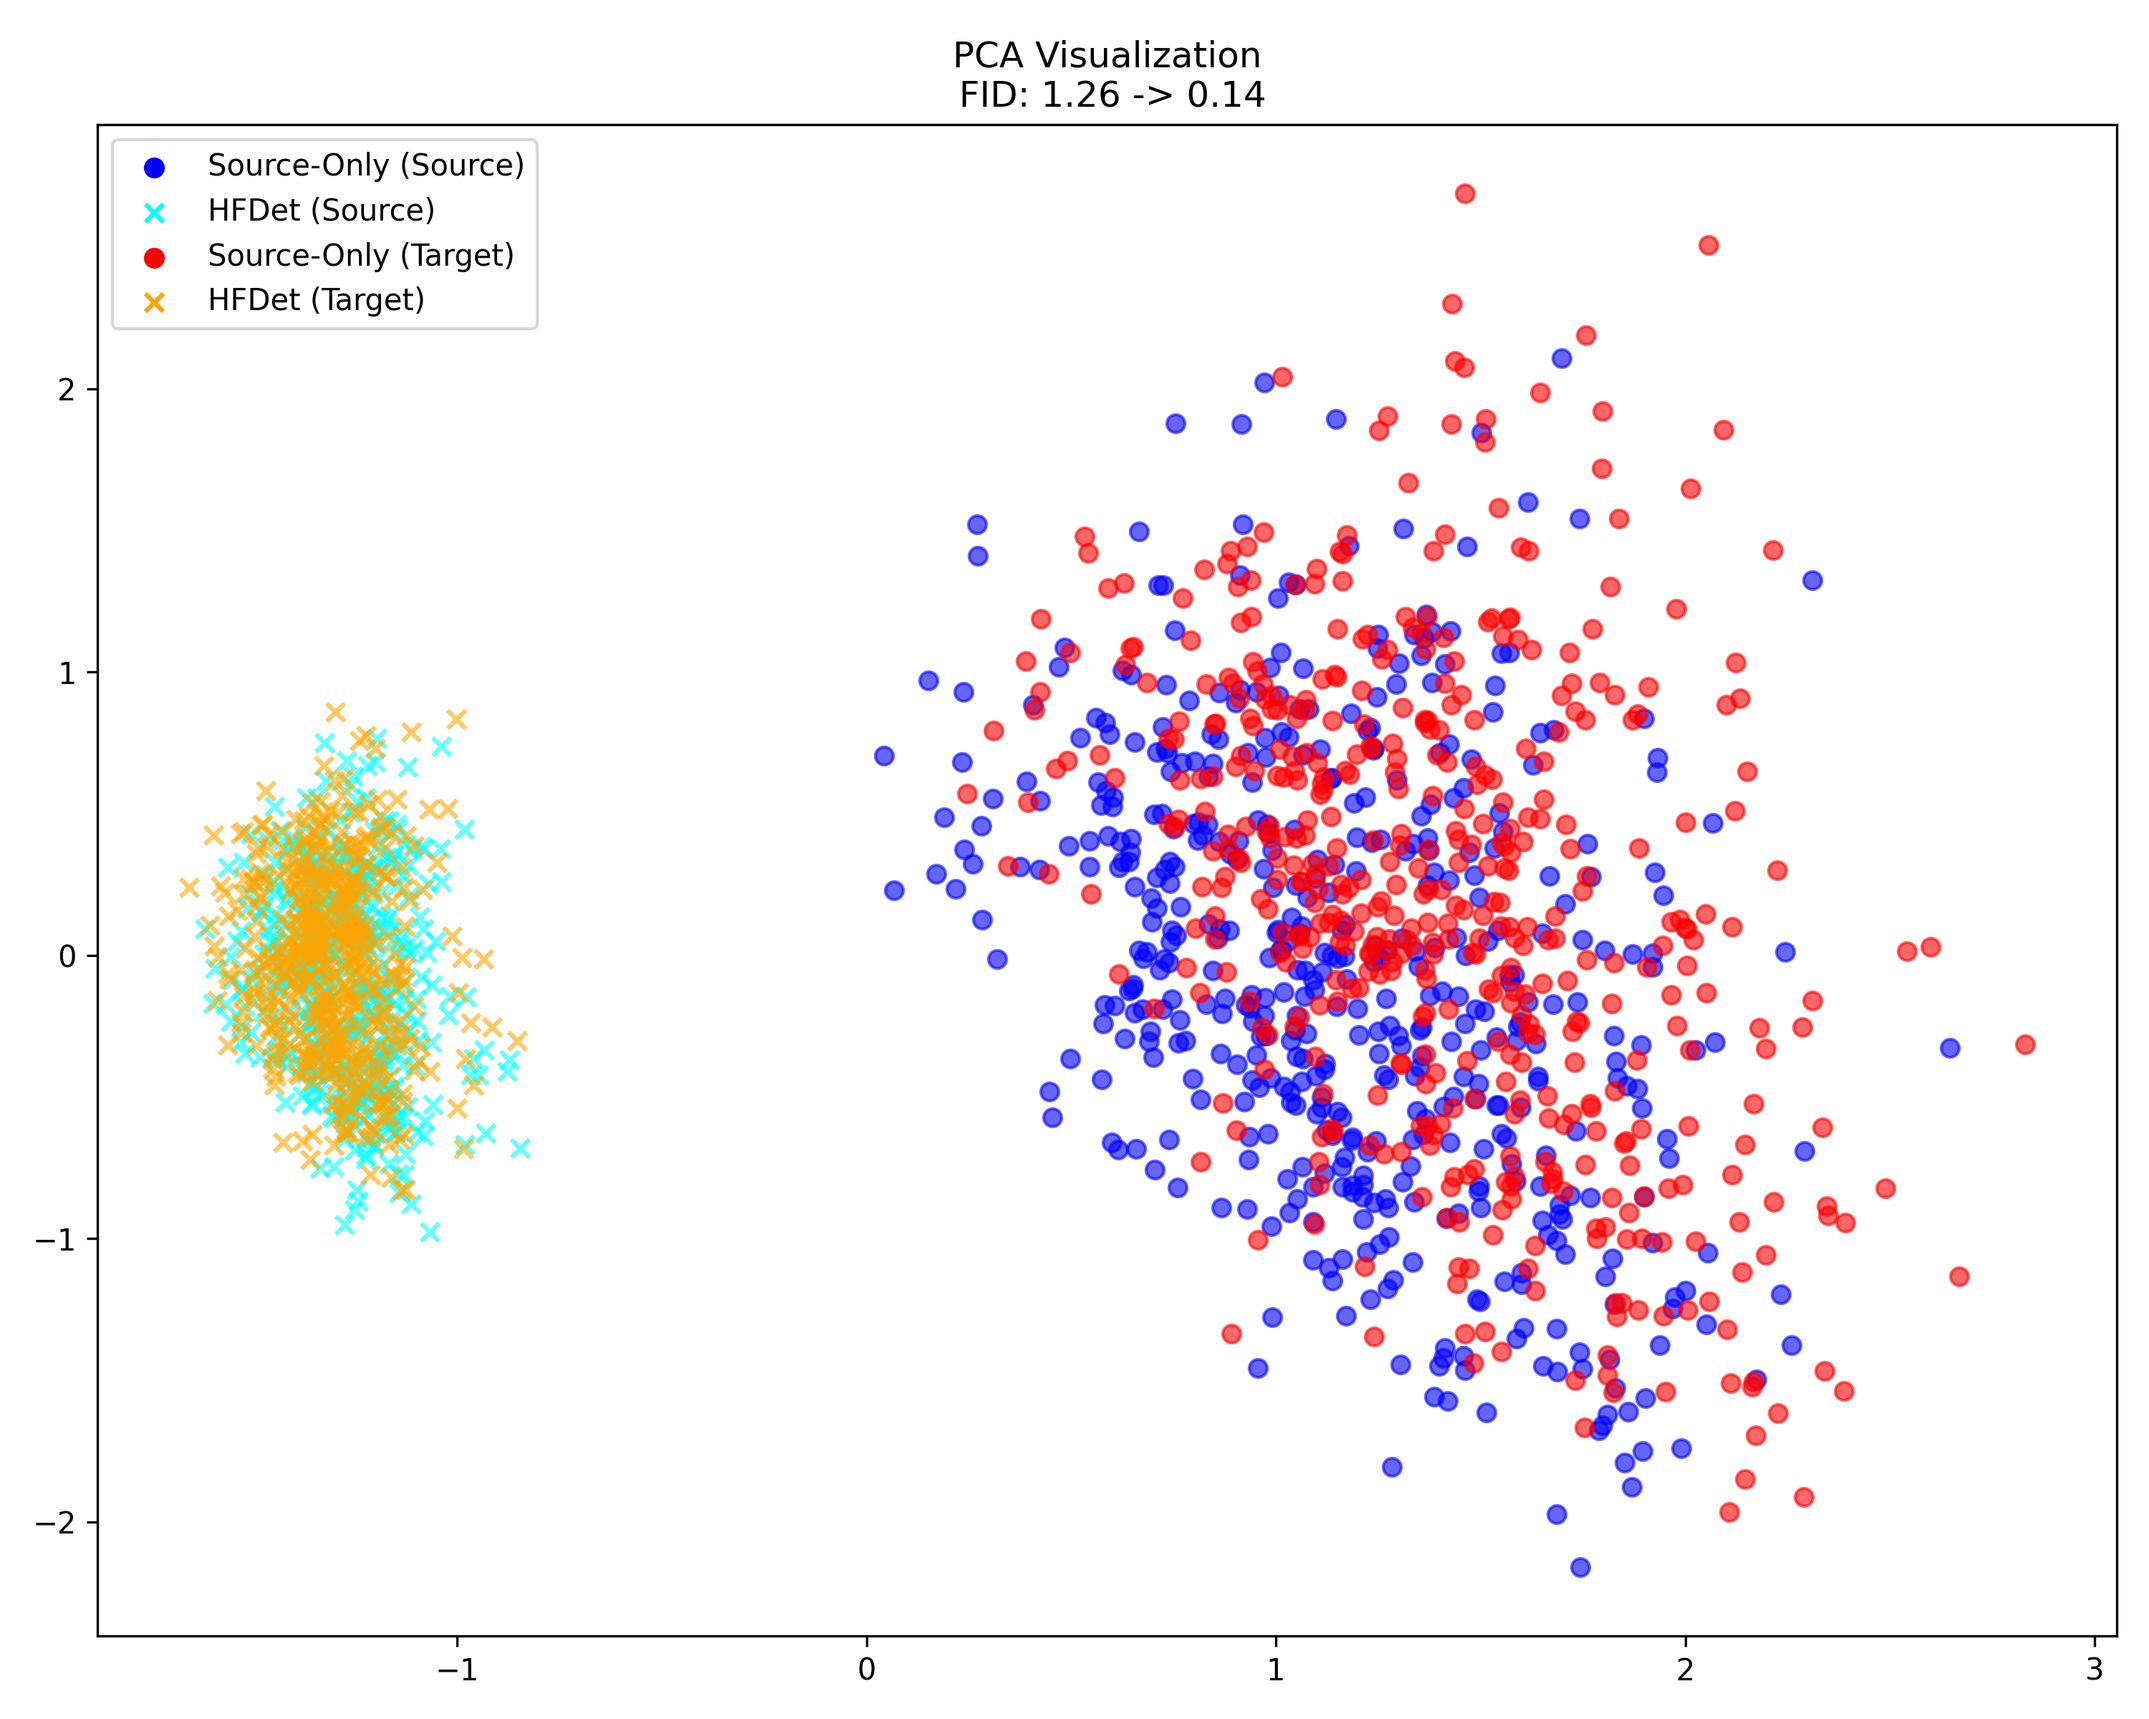
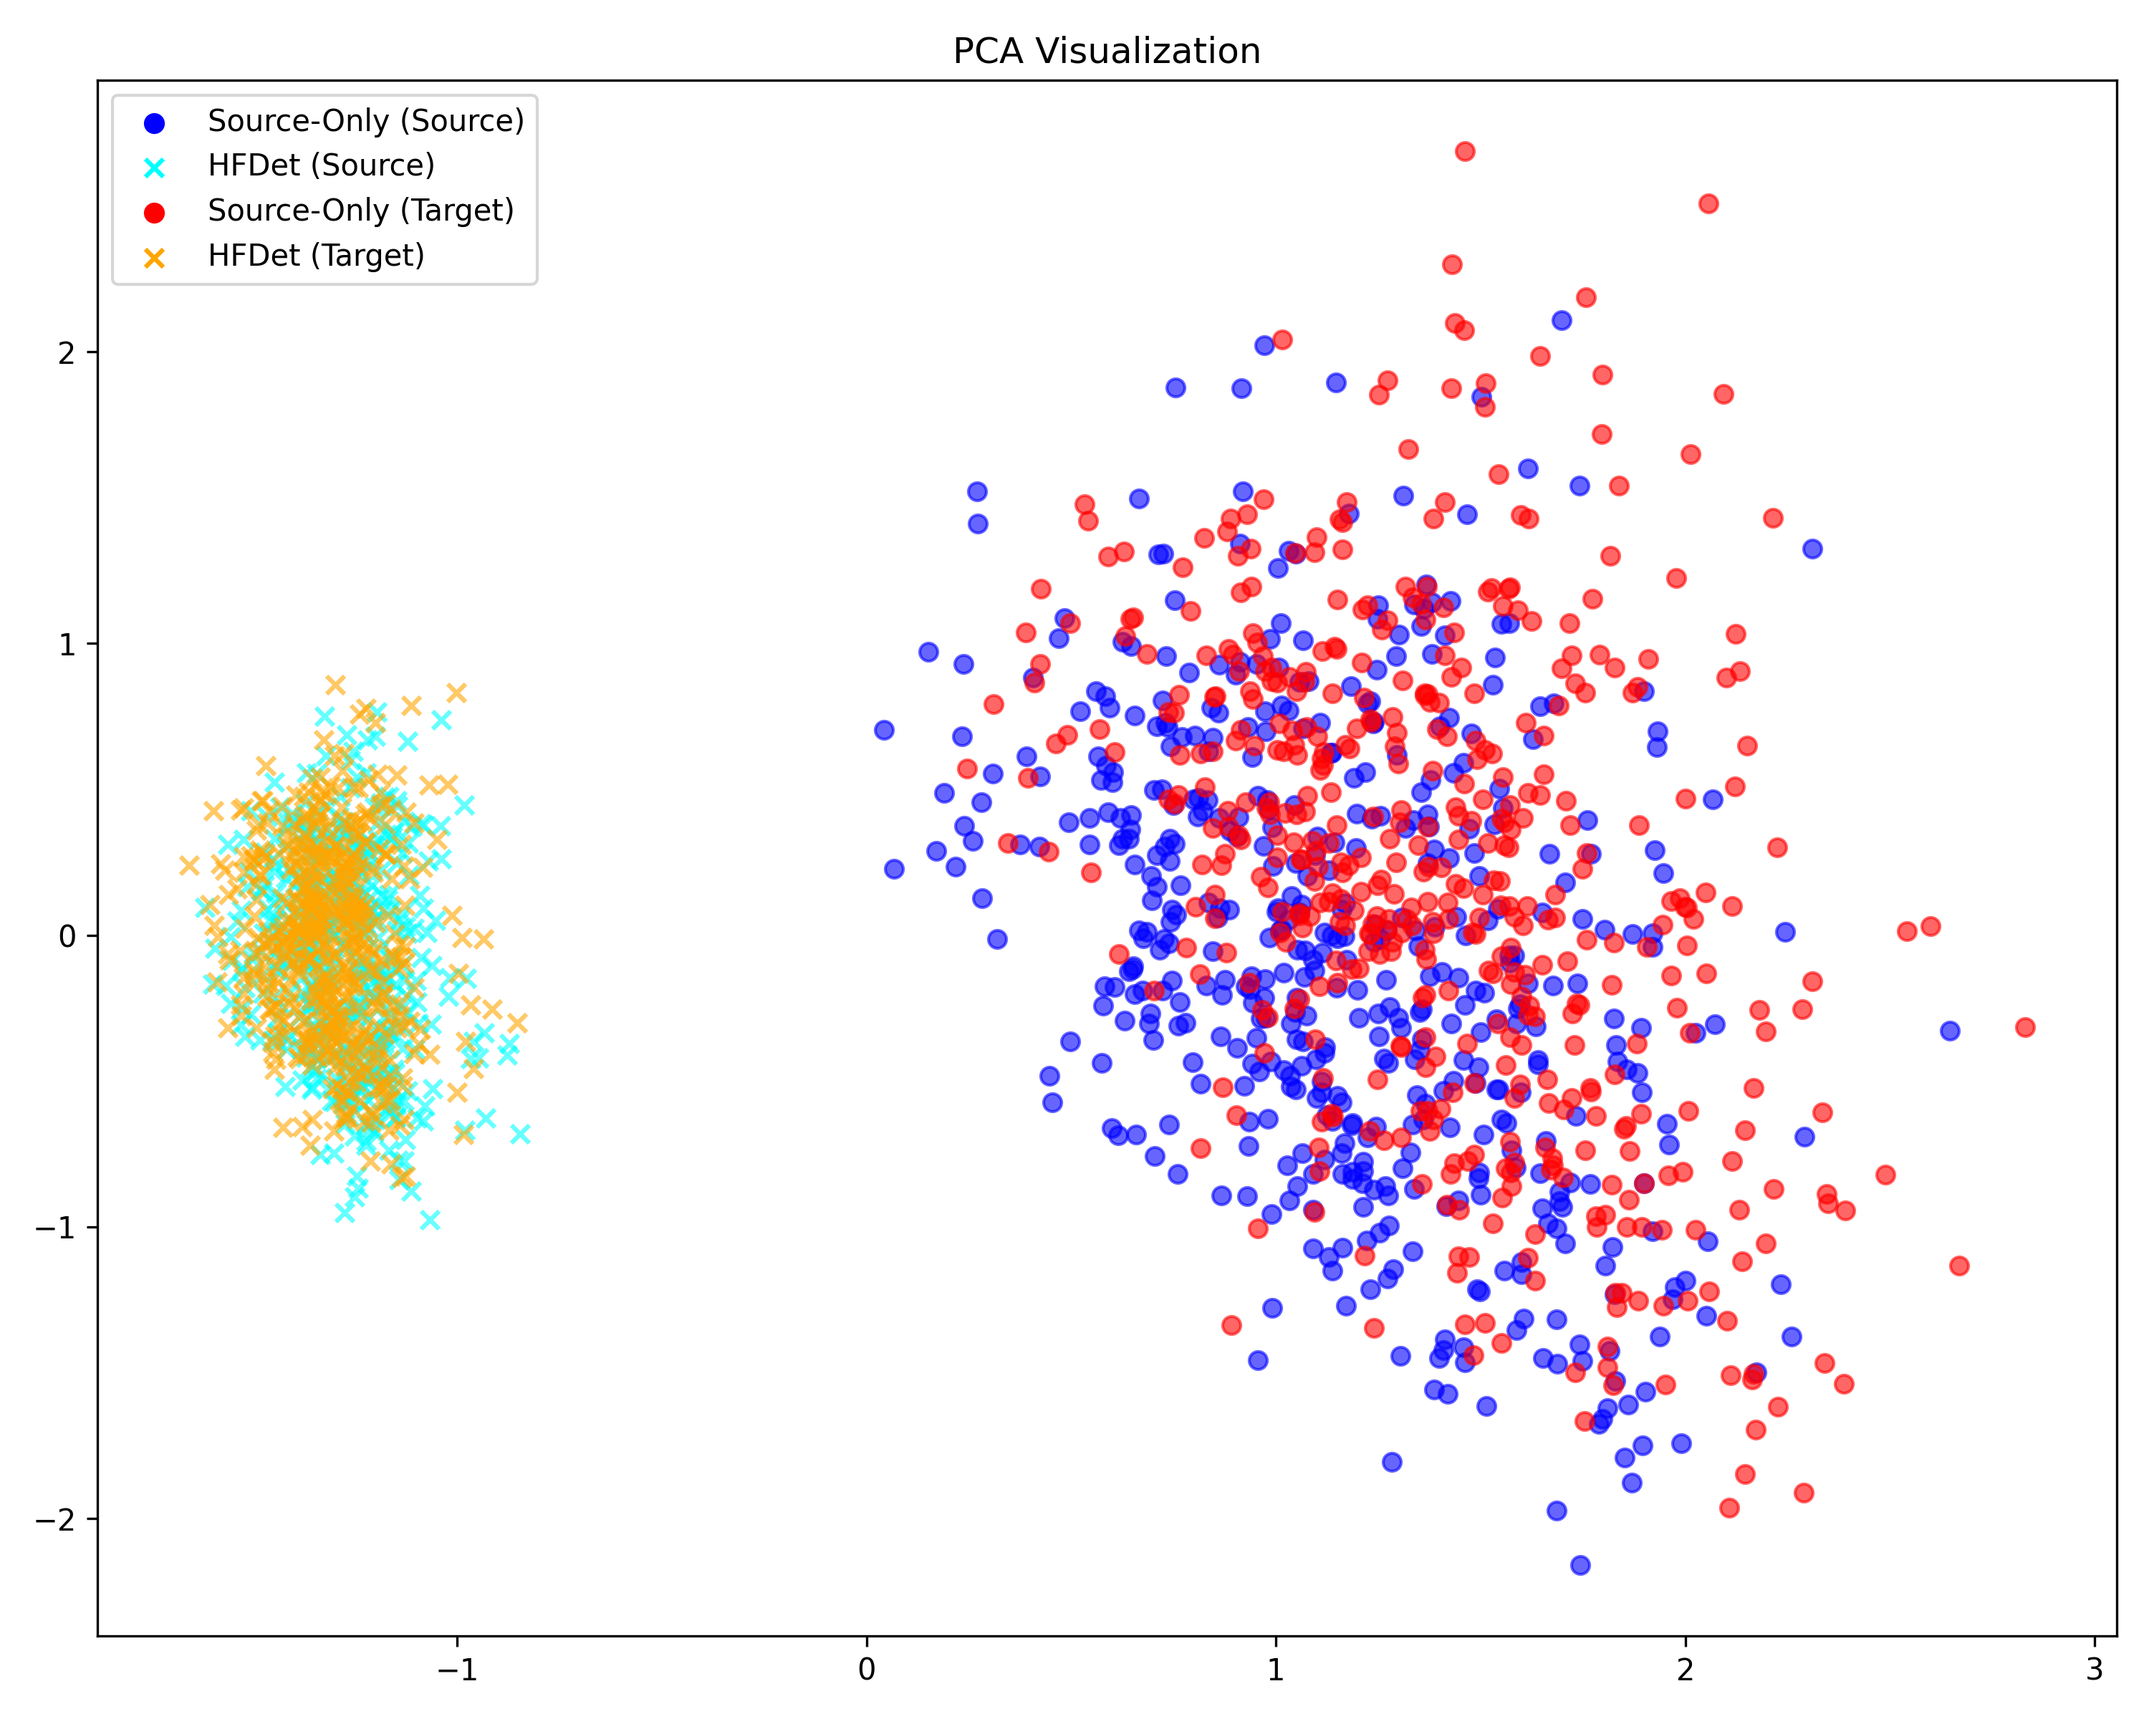
add

diff --git a/pca.py b/pca.py
@@ -60,28 +60,28 @@ def calculate_fid(mu1, sigma1, mu2, sigma2):
 
 # **数据加载**
 # c2f
-source_path = '/home/lenovo/data/liujiaji/DA-Datasets/CityScapes/yolov5_format'
-target_path = '/home/lenovo/data/liujiaji/DA-Datasets/CityScapesFoggy/yolov5_format'
-daod_weight = 'runs/train/improve/sourcecity-aptpse-dmm/weights/best.pt'
-source_weight = 'runs/train/baseline/sourcecity/weights/best.pt'
+# source_path = '/home/lenovo/data/liujiaji/DA-Datasets/CityScapes/yolov5_format'
+# target_path = '/home/lenovo/data/liujiaji/DA-Datasets/CityScapesFoggy/yolov5_format'
+# daod_weight = 'runs/train/improve/sourcecity-aptpse-dmm/weights/best.pt'
+# source_weight = 'runs/train/baseline/sourcecity/weights/best.pt'
 
 # s2c
 # source_path = '/home/lenovo/data/liujiaji/DA-Datasets/Sim10k'
 # target_path = '/home/lenovo/data/liujiaji/DA-Datasets/CityScapes/yolov5_format_car_class'
-# # weight = 'runs/train/improve/sourcesim10k-aptpse-dmm/weights/best.pt'
-# weight = 'runs/train/baseline/sourcesim10k/weights/best.pt'
+# daod_weight = 'runs/train/improve/sourcesim10k-aptpse-dmm/weights/best.pt'
+# source_weight = 'runs/train/baseline/sourcesim10k/weights/best.pt'
 
-# # # v2c
-# source_path = '/home/lenovo/data/liujiaji/DA-Datasets/VOC/train/VOCdevkit/VOC2007/yolov5_format'
-# target_path = '/home/lenovo/data/liujiaji/DA-Datasets/clipart/yolov5_format'
-# weight = 'runs/train/improve/sourcevoc-aptpse-dmm/weights/best.pt'
-# # weight = 'runs/train/baseline/sourcevoc/weights/best.pt'
+# # v2c
+source_path = '/home/lenovo/data/liujiaji/DA-Datasets/VOC/train/VOCdevkit/VOC2007/yolov5_format'
+target_path = '/home/lenovo/data/liujiaji/DA-Datasets/clipart/yolov5_format'
+daod_weight = 'runs/train/improve/sourcevoc-aptpse-dmm/weights/best.pt'
+source_weight = 'runs/train/baseline/sourcevoc/weights/best.pt'
 
 # pu2pr
 # source_path = '/home/lenovo/data/liujiaji/Datasets/pupower'
 # target_path = '/home/lenovo/data/liujiaji/Datasets/prpower'
-# # weight = 'runs/train/improve/sourcepu-aptpse-dmm/weights/best.pt'
-# weight = 'runs/train/baseline/sourcepu/weights/best.pt'
+# daod_weight = 'runs/train/improve/sourcepu-aptpse-dmm/weights/best.pt'
+# source_weight = 'runs/train/baseline/sourcepu/weights/best.pt'
 
 # 数据集加载（保持不变）
 source_dataset = CustomDataset(source_path, transform=transform)
@@ -128,16 +128,20 @@ plt.legend()
 leg = plt.legend()
 for lh in leg.legend_handles:
     lh.set_alpha(1)
+print(f"FID\nBaseline: {fid_baseline:.2f}\nHFDet: {fid_adapted:.2f}")
 
-# 添加 FID 值到图中右上角
-plt.text(
-    x=plt.xlim()[1] * 0.6,   # 横坐标位置偏右
-    y=plt.ylim()[1] * 0.95,  # 纵坐标位置靠顶部
-    s=f"FID\nBaseline: {fid_baseline:.2f}\nHFDet: {fid_adapted:.2f}",
-    fontsize=12,
-    bbox=dict(boxstyle="round", facecolor="white", alpha=0.8)
-)
+# 获取数据范围
+x_max, y_max = feats_2d[:, 0].max(), feats_2d[:, 1].max()
+x_min, y_min = feats_2d[:, 0].min(), feats_2d[:, 1].min()
 
-plt.title("PCA Visualization of Domain Shift")
+# # 设置 FID 注释位置：右上角，稍微偏移一些，避免遮挡边界
+# plt.text(
+#     x=x_max - 0.05 * (x_max - x_min),
+#     y=y_max - 0.05 * (y_max - y_min),
+#     s=f"FID\nBaseline: {fid_baseline:.2f}\nHFDet: {fid_adapted:.2f}",
+#     fontsize=12,
+#     bbox=dict(boxstyle="round", facecolor="white", alpha=0.8)
+# )
+plt.title("PCA Visualization")
 plt.tight_layout()
-plt.savefig('./gap/pca/pca-c2f-compare.png', dpi=300)
+plt.savefig('./gap/pca/pca-v2c-compare.png', dpi=300)
